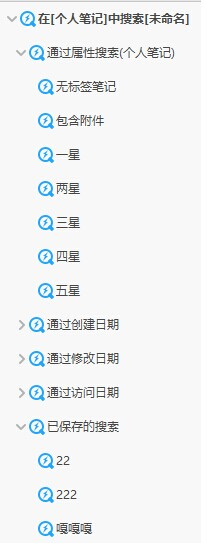
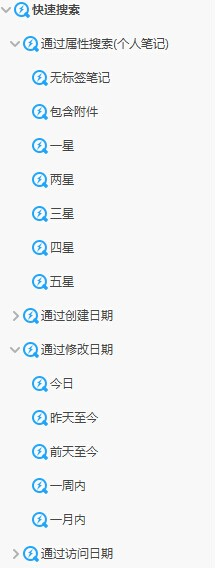
这次主要修改了内容收集，新建及编辑，欢迎页等内容 以及把图片修改了一下

Changed region(s): [[0.0, 0.0, 0.9275, 1.0]]

diff --git a/PC/createpc.md b/PC/createpc.md
@@ -1,22 +1,22 @@
 ##新建各种类型笔记
-为知笔记（ Windows版）为您提供多种新建类型，包括：空白笔记、模板笔记、桌面便签、任务列表、日历、markdown笔记、导入其他多格式文件笔记等
+为知笔记（ Windows版）为您提供多种新建笔记类型，包括：空白笔记、模板笔记、桌面便签、任务列表、日历、markdown笔记、导入其他多格式文件笔记等
 #### 新建空白笔记
 空白笔记给用户提供了更大的操作空间，用户想要写什么内容都可以自定义：
 
 + 打开客户端，点击“新建笔记”，即可创建新笔记。![W1](img\W1.png)
 + 快捷键 Ctrl+N 或全局热键Ctrl+Alt+N（可单独打开一个窗口哦）
-+ 在左栏目录树中选中某文件夹-> 右键-> 新建笔记”等多种方式
++ 在左栏目录树中选中某文件夹-> 右键-> 新建笔记
 
 
 ####新建模板笔记
 新建模板笔记的方法与新建空白笔记类似，在新建笔记按钮旁的下拉菜单里有很多模板，点击即可按此模板新建笔记了。</br>
 ![W2](img\W2.jpg)
-**预置模板包括**：为知笔记提供了日记、联系人、每日回顾、九宫格日记、康奈尔笔记等模板，方便大家的使用。
+**预置模板**：为知笔记提供了日记、联系人、每日回顾、九宫格日记、康奈尔笔记等模板，方便大家的使用。
 
 **注：**为知笔记还支持**自定义笔记模板**，了解详情可以点击：[如何自定义笔记模板](http://blog.wiz.cn/faq-templates.html)
 
-####导入文件时转化为笔记正文
-文件导入时转化为笔记正文，使得阅读笔记时能更快更直观地浏览到附件的内容。![W21](img\W21.jpg)
+####将导入的文件内容转化为笔记正文
+某些文件导入时可转化为笔记正文，使得阅读笔记时能更快更直观地浏览到附件的内容。![W21](img\W21.jpg)
 + 纯本文类如txt文件，图片类如jpg/png等格式文件不需要设置就可以转成为笔记正文。
 + office类型、pdf类型文档直接拖拽到目录下即可显示正文。但自动转化还需要本机安装了office（office需要是完整版）和相应的PDF阅读器；
 
@@ -40,7 +40,7 @@
 #####1.常用操作
 
 + **保存按钮：**快捷键Ctrl+S，只是保存，不转到阅读模式；</br>
-+ **HTML 模式**：以html模式查看笔记，直接修改html代码可修改笔记内容；</br>
++ **HTML 模式：**以html模式查看笔记，直接修改html代码可修改笔记内容；</br>
 + **清除格式：**可清除颜色、斜体、粗体、下划线等样式；</br>
 + **插入清单：**快捷键为Ctrl+O插入；</br>
 + **插入代码：**可以插入不同类型的代码，并将代码高亮；</br>
@@ -68,7 +68,7 @@
 + **插入表格：**可以新建简单的表格，并设置宽度是固定的还是可变的；</br>
 + **插入链接：**快捷键为Ctrl+K，可以插入网址、笔记里的书签、其他笔记或附件，插入其他笔记时还有较方便的方法，拖拽其他笔记过来就可以了。</br>
 
-#####5.增减设置
+#####5.删除线等设置
 + **删除线：**选中部分文字，点击此按钮，可添加删除线。</br>
 + **下标、上标：**将选中的文字变为下标或上标；</br>
 + **两端对齐：**调整文字的水平间距，使每一行向页面两端对齐；</br>
@@ -91,7 +91,7 @@
 
 
 ####插入待办清单
-为知笔记支持代办清单功能，如图
+为知笔记支持待办清单功能，如图
 ![W22](img\W22.png)
 
 **1.待办清单介绍**
@@ -106,7 +106,7 @@
 
 **2.如何使用待办清单进行协作**
 
-①创建待办清单笔记，在编辑界面，选择 checkbox 按钮，创建待办清单 （个人笔记按这个步骤创建待办清单列表即可）</br>
+①创建待办清单，在编辑界面，选择 checkbox 按钮，创建待办清单 （个人笔记按这个步骤创建待办清单列表即可）</br>
 ![W7](img\W7.jpg)
 ②通过标题或评论@相关人员（如待办清单图），发送任务通知消息</br>
 ③利用多人编辑，评论记录工作过程</br>
@@ -138,5 +138,6 @@
 
 注意：
 + 可恢复的前提是你删除的笔记在删除前进行过同步，即在服务器里存在过。若本地的笔记在同步上传前就彻底删除了，就不能通过这个方法找回。
++ 服务器端默认会对清空后已删除的笔记30天的缓存，30天内可恢复，超过30天将无法恢复
 + 恢复企业群组里的笔记需要超级用户及以上权限的成员才可以操作
 

diff --git a/PC/syncpc.md b/PC/syncpc.md
@@ -1,11 +1,11 @@
 ## 同步
 为知笔记是以云同步为基础的笔记产品，可以在多个终端上使用，笔记在各个终端上最终保持一致，那么笔记是怎么进行同步的呢？
-
-####同步方式：
 在同步时，为知笔记会自动检查本地笔记与服务器上笔记做的更新（笔记的增删改都属于更新），若本地做了更新，将会上传到服务器覆盖原有版本；若服务器上有了更新，则会将新的笔记版本下载到本地。
 
+####同步方式：
+
 - 即时同步：笔记在本地更新后，在笔记列表中会出现一个向上的待上传的箭头，网络情况良好的情况下，这个箭头马上消失，这就是为知笔记的即时同步功能，使服务器上的笔记尽量保持最新状态。
-- 自动同步：一般情况下，为知笔记会每15分钟进行一次全面的同步。
+- 自动同步：一般情况下，为知笔记每15分钟进行一次全面的同步。
 - 手动同步：由于自动同步有一个时间间隔，你也可以手动执行同步操作，点击为知笔记左上角头像右侧的同步按钮，或快捷键F9即可开始手动同步。
 - 退出时笔记自动同步：为了防止笔记有更新后直接退出为知笔记，导致忘了执行同步或没同步完的情况发生，在退出为知笔记时，笔记会自动同步，在同步完成后自动退出为知笔记或关闭电脑。
 
@@ -14,11 +14,11 @@
 ####同步机制
 
 1. 在为知笔记客户端写的笔记信息，首先会保存在本地，同步之后保存到服务器；
-2. 同一篇笔记在不同客户端编写会保存最后一个客户端同步成功的内容（注：经常手机电脑切换编辑同一篇笔记的用户，在使用另一客户端编辑笔记时一定要确保另一客户端已经同步成功）
-3. 企业服务群组用户和团队成员同时编辑一篇笔记时，服务器上默认保存的版本是最后一个人上传的版本。（注：为了防止版本冲突发生，若您的团队成员正在编辑一篇笔记，您阅读此篇笔记时，会提示您对方正在编辑，此时请不要编辑，待他同步之后再编辑）
+2. 同一篇笔记在不同客户端编写会保存最后一个客户端同步成功的内容（注：经常手机电脑切换编辑同一篇笔记的用户，在切换客户端时要确保各个客户端都已经同步成功）
+3. 多个群组成员协同编辑同一篇笔记时，服务器上默认保存的版本是最后一个人上传的版本。（注：为了防止版本冲突发生，其中一个团队成员正在编辑一篇笔记，其他人在阅读此篇笔记时，会提示某某成员正在编辑该笔记，此时请不要编辑，待他同步之后再编辑）
 
 ####同步设置：
-在Windows客户端 菜单->选项->同步中，有详细的同步设置项，你可以在这里开启或关闭自动同步和退出自动同步。</br>![W9](img\W9.jpg)
+在Windows客户端 菜单->选项->同步中，有详细的同步设置项，你可以在这里开启或关闭自动同步和退出自动同步，并可通过连接设置来修改网络协议和代理服务器</br>![W9](img\W9.jpg)
 为了获得最需要的笔记数据并且不浪费资源，你可以在这里设置同步时下载哪一部分笔记。没有下载下来的笔记上会呈现一个绿色向下箭头的待下载标志，点击阅读笔记时会自动下载。
 
 ####同步流量限制：

diff --git a/PC/scanpc.md b/PC/scanpc.md
@@ -2,10 +2,8 @@
 
 在各个客户端新建的笔记，或通过网页、微信、微博收藏的笔记，都可以在手机端直接浏览查看！阅读笔记，可以查看笔记内容、笔记信息、笔记所带的附件、也可以分享给朋友或分享到群组，当然也可以删除。
 
-
-##展现模式
 #### 左侧目录树结构
-为知笔记目前通过和Windows资源管理器类似的多级目录结构展现的。用户可以快速找到自己分类的文件夹找到笔记。
+为知笔记目前通过和Windows资源管理器类似的多级目录结构展现。用户可以快速找到自己分类的文件夹找到笔记。
 + 个人笔记：通过自己的习惯搭建的目录结构。为知笔记还内嵌了几个默认的目录：
    + 微信收藏
 
@@ -21,6 +19,7 @@
 
    + 不管是为知笔记的个人用户还是企业用户，每个人都有自己的个人 mywiz 邮箱，如果你发邮件给你的个人mywiz邮箱，内容都会自动保存到我的邮件目录的 </br>
 更多有关mywiz邮箱请点击：[mywiz邮箱使用方法](http://blog.wiz.cn/wiz-mywiz.html)
+  + 另外还有桌面便签、任务列表等
 + 团队&群组
     + 企业群组：存放自己创建的企业群组和被别人加入的企业群组目录树结构
     + 个人群组
@@ -28,15 +27,14 @@
        + 其他群组：存放的是被别人添加的个人群组
 
 ####笔记列表
- + 笔记列表排序：可以通过创建日期、修改日期、访问日期、评价等排序笔记列表,如下图
+ + 笔记列表排序：可以通过创建日期、修改日期、访问日期、评价等对笔记列表的排序方式,如下图
  ![W27](img\W27.jpg)
 
 
-####浏览笔记正文
+####浏览笔记内容
 + 查看笔记内容：可以直接查看编辑的内容；点击打开附件正文或者直接在笔记里浏览附件正文。
 + 打开一篇笔记，查看笔记属性信息
-
-点击标题上方菜单栏的“i” 图标，查看笔记所在目录、笔记大小、笔记创建时间、最后修改时间![W26](img\W26.jpg)
+  +点击标题上方菜单栏的“i” 图标，查看笔记所在目录、笔记大小、笔记创建时间、最后修改时间![W26](img\W26.jpg)
 
 + 浏览评论：点击评论按钮即可打开评论内容
 

diff --git a/PC/mainpagepc.md b/PC/mainpagepc.md
@@ -5,24 +5,25 @@
 1. 侧边栏区域
  + 常用工具栏
     +  消息中心：接收群组成员通过@、评论、编辑笔记时来的消息提醒
-    +  快捷方式：可以通过拖拽标题把常用的笔记的快捷方式拖拽到这个区域，可以快速定位
-    +  快速搜索：可以通过创建日期、修改日期、访问日期等快速搜索笔记
+    +  快捷方式：可以通过拖拽标题把常用的笔记、文件夹以及笔记标签的快捷方式拖拽到这个区域，可以快速定位
+    +  快速搜索：可以通过日期、附件、评价等快速搜索笔记
  + 个人笔记区域
     + 文件夹：存放个人笔记的文件夹目录
     + 标签：目前支持个人笔记，存放个人笔记的标签目录树
- + 群组&团队区域
+ + 团队&群组区域
     + 企业群组：存放自己创建的企业群组和被别人加入的企业群组目录树结构
     + 个人群组
        + 我的群组：存放的是自己创建的个人群组
        + 其他群组：存放的是被别人添加的个人群组
 2. 笔记列表区域
  + 笔记列表排序：可以通过创建日期、修改日期、访问日期、评价等排序笔记列表
- + 个人笔记列表：制定目录下的笔记列表
- + 群组笔记列表：制定目录下的群组笔记列表
+ + 个人笔记列表：指定目录下的笔记列表
+ + 群组笔记列表：指定目录下的群组笔记列表
 3. 笔记编辑区域
- + 笔记标题：新建状态下显示未命名，可在此次添加笔记标题
+ + 笔记标题：新建状态下显示未命名，可在此处添加笔记标题
  + 笔记正文：笔记正文编辑区可以编辑笔记内容
  + 笔记操作
+    + 编辑：在阅读状态下显示，点击编辑可以对笔记进行编辑
     + 保存并阅读：保存笔记，保存后笔记为阅读状态
     + 添加标签：可以为笔记添加标签
     + 添加附件：点击添加多种格式附件

diff --git a/PC/joinwizpc.md b/PC/joinwizpc.md
@@ -6,8 +6,8 @@
 
 #### 记录、收集有价值的信息
 
-+ 自己撰写笔记，记录点滴
-+ 直接导入 word、excel、pdf 等文件，文件以笔记正文显示并保存为附件
++ 撰写笔记，记录点滴
++ 直接导入 word、excel、pdf 等文件，文件内容在笔记正文显示并保存为附件
 + @保存到为知笔记，自动收藏微博内容到为知笔记
 + 发消息给为知笔记微信公众帐号，自动保存消息到为知笔记
 + 网页内容可以一键分享到为知笔记
@@ -24,8 +24,8 @@
 ####共享
 
 
-+ 个人笔记可以通过邮件、短信、社交平台分享给朋友
-+ 团队可以共同构建资料库，共享资料文档、工作经验、分享 idea
++ 笔记可以通过邮件、短信、社交平台分享给朋友
++ 团队可以共同构建资料库，共享资料文档、工作经验，分享 idea
 + 成员更新群组内容，保证其他团队成员时刻看到的都是最新笔记
 + 团队成员可以共同编辑一篇笔记
 
@@ -42,7 +42,7 @@
 ##成为为知笔记用户
 
 ####下载各个设备上的为知笔记
-您可以在为知笔记的 Windows、Web、Android、iPhone、iPad、Mac 等任意一个客户端注册为知笔记帐户。[进入为知笔记产品下载界面](http://www.wiz.cn/download.html)。
+您可以在为知笔记的 Windows、Web、Android、iPhone、iPad、Mac 等任意一个客户端注册为知笔记帐户。点击[进入为知笔记产品下载界面](http://www.wiz.cn/download.html)。
 
 #### 在Windows端成为为知笔记的用户
 

diff --git a/PC/managepc.md b/PC/managepc.md
@@ -6,19 +6,19 @@
  * 选择企业群组，展开目录，可浏览群组笔记![W29](img\W29.jpg)
 
 #### 新建目录
-选择个人笔记或群组，点击右键，选择”新建文件夹“
-输入目录名称，点击”OK“
+选择个人笔记或群组，点击右键，选择“新建文件夹”
+输入目录名称，点击“OK”
 
 
 #### 重命名目录
-右键点击目录名，选择”重命名“，在弹出窗口中输入新的目录名称
+右键点击目录名，选择“重命名”，在弹出窗口中输入新的目录名称
 
 
 #### 删除目录
-右键点击目录名，选择”删除“
+右键点击目录名，选择“删除”
 
-#### 拖动目录
-通过鼠标拖动的方式，可将目录及目录下的笔记，复制
+#### 移动目录
+通过鼠标拖动的方式，可将目录及目录下的笔记移动或者复制其他的目录下
 
 ##管理笔记标签
 
@@ -30,16 +30,16 @@
 > 群组笔记不支持标签
 
 #### 按标签阅读笔记
-左侧常用区域中，点击标签分类，可查看标签下的笔记
+左侧常用区域中，点击某标签分类，可查看该标签下的笔记
 ![W31](img\W31.jpg)
 
 
 ### 新建标签
-1. 在标签区域点击右键，选择”新建标签“，输入标签名称，点击OK
+1. 在标签区域点击右键，选择“新建标签”，输入标签名称，点击OK
 
 
 ### 删除标签
-1. 右键点击标签，可选择”重命名“或”删除“标签
+1. 右键点击标签，可选择“重命名”或“删除”标签
 
 
 

diff --git a/PC/serchpc.md b/PC/serchpc.md
@@ -13,14 +13,14 @@
 - 通过时间搜索，创建日期、修改日期、访问日期都可以作为搜索的标准。
 - 已保存的搜索是指可以对某些比较常用的关键词建立快捷搜索
 
-![W32](img\W32.jpg)
+![W33](img\W33.jpg)
 
 ####快捷方式
 为知笔记提供了快捷方式，可以把自己经常要查看或者修改的笔记拖拽到快捷方式区域，就可以快速定位了。
 ![W34](img\W34.jpg)
 
 ####搜索范围
-搜索时根据目前左栏目录树中选中的是什么，搜索菜单中提供四个搜索范围，供我们选择：
+搜索时根据目前左栏目录树中选中的是什么，搜索菜单中提供四个搜索范围以供选择：
 - 全部笔记，包含个人笔记和群组笔记
 - 个人笔记或某群组笔记
 - 某文件夹下的根部笔记
@@ -29,7 +29,7 @@
 另外下面还可选取是搜索全部文字还是搜索标题
 
 ####高级搜索
-在高级搜索中可以进行更多搜索方面的细节设置，还可以筛选出有相同标题或来源的重复笔记。
+在高级搜索中可以进行更多细节设置，还可以筛选出有相同标题或来源的重复笔记。
 
 ####搜索选项
 为知笔记windows客户端的搜索利用全文索引来搜索笔记。每隔一段时间为知笔记就会在后台更新索引，在搜索前若有笔记还未更新到索引，也会马上进行这部分笔记的索引更新，防止这部分笔记无法被准确搜到。搜索选项主要帮助用户自行更新或重建索引。

diff --git a/PC/collectpc.md b/PC/collectpc.md
@@ -1,5 +1,5 @@
 
-##网页剪接器收集
+##网页剪辑器收集
 为知笔记的前身是网文快捕，所以为知笔记继承了网文快捕的很多快速抓取网页内容并保存到为知笔记的功能。支持用多种浏览器的网页剪辑器插件，快速的保存网页内容。网页保存方式包括保存整页、保存正文、保存选择、保存到本地等。
 
 了解如何使用网页剪接器快速保存网页，请点击[<如何使用为知笔记快速抓取网页内容？>](http://blog.wiz.cn/webclipping.html)
@@ -33,7 +33,7 @@
 了解详情点击:[如何保存微信内容到为知笔记？](http://blog.wiz.cn/wiz-wechat.html)
 
 
-##有道云、印象笔记等外部数据导入
+##有道云笔记、印象笔记等外部数据导入
 ####导入evernote数据
 为知笔记自带导入evernote数据的插件，如果你有需要把evernote的数据导入到为知笔记中。如下图操作
 + 选择 文件 -> 导入Evernote...

diff --git a/PC/teamworkpc.md b/PC/teamworkpc.md
@@ -18,7 +18,7 @@
 
 ## <a name="manage">团队管理</a>
 右键点击**团队或公司名称->管理团队** 进入为知笔记企业管理后台
-![W19](img\W19.jpg)
+![W19](W19.jpg)
 
 在团队管理后台，可管理群组，包括为群组添加、删除成员；修改群组名称、备注等；还能够集中管理团队成员，设置团队成员角色等
 
